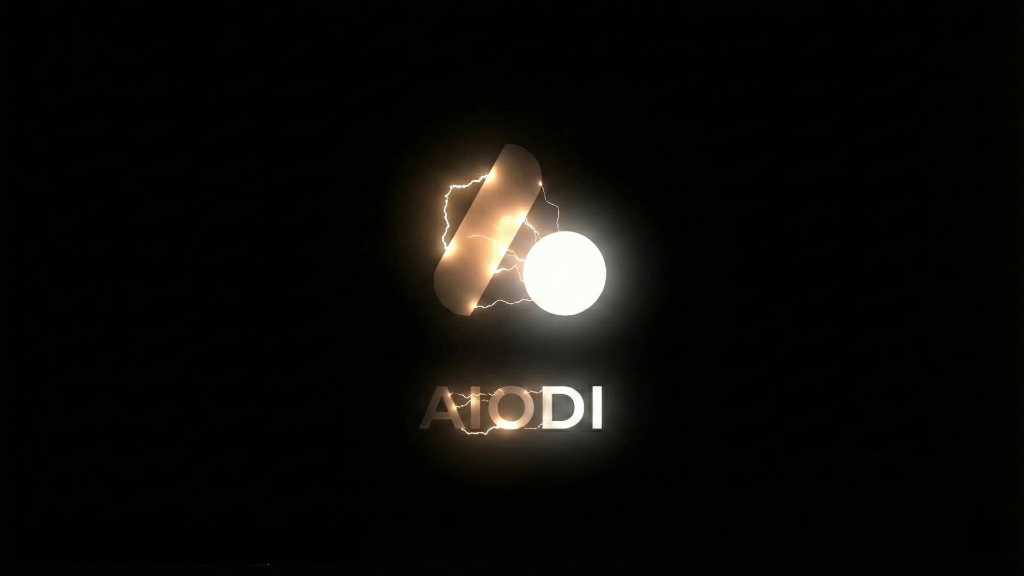
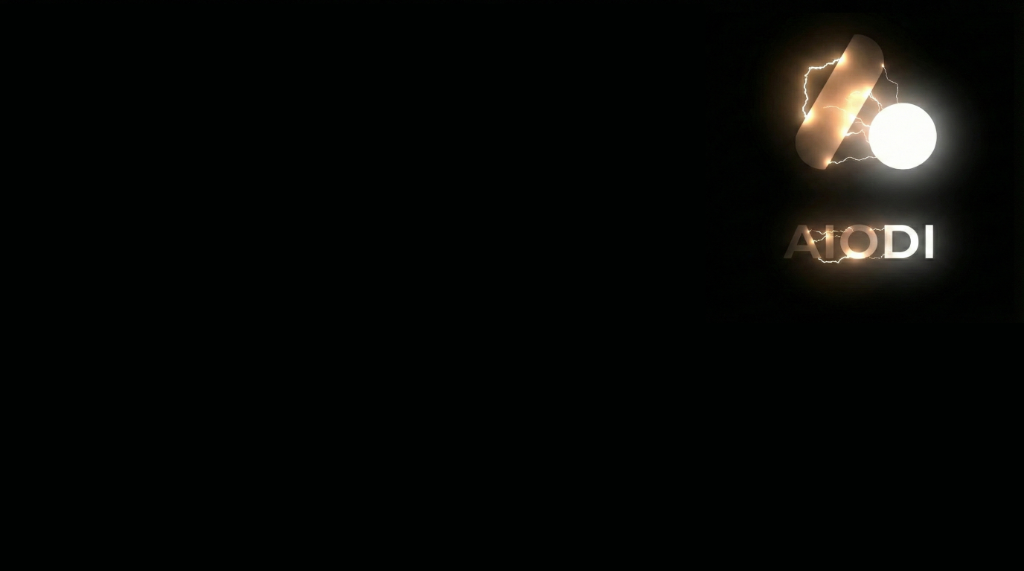
Fix search from info panel and swap splash/background images
1. Fixed search functionality from information panel:
   - Searching by actor name now properly displays results
   - Searching by movie title now properly displays results

   Root cause: The global_search.py script was setting window properties with
   plugin URLs and opening window 1112 (GlobalSearchResults), but the container
   controls weren't being told to refresh and load the content.

   Solution: Added Container.Refresh calls for containers 100, 101, and 102
   after a brief 100ms delay to allow the window to fully open. This triggers
   the panels to load their content from the GlobalSearch.MoviesURL,
   GlobalSearch.SeriesURL, and GlobalSearch.YouTubeURL properties.

   Modified: skin.AIODI/resources/lib/global_search.py

2. Swapped splash screen and default background images:
   - The old background.png (700KB) is now splash.png (splash screen)
   - The old splash.png (174KB) is now background.png (default background)

   This allows the more detailed image to be used as the splash screen
   and the simpler image as the background.

   Modified:
   - skin.AIODI/extras/splash.png (now 700KB, was 174KB)
   - skin.AIODI/extras/background.png (now 174KB, was 700KB)

Changed region(s): [[0.375, 0.2382, 0.625, 0.8039], [0.75, 0.0595, 0.9688, 0.5061]]

diff --git a/skin.AIODI/resources/lib/global_search.py b/skin.AIODI/resources/lib/global_search.py
@@ -71,8 +71,14 @@ try:
         # Close search dialog if open and open results
         if current_dialog_id == 1106:
             xbmc.executebuiltin('Dialog.Close(1106)')
-            
+
         xbmc.executebuiltin('ActivateWindow(1112)')
+
+        # Give window time to open, then refresh containers to load content
+        xbmc.sleep(100)
+        xbmc.executebuiltin('Container(100).Refresh')
+        xbmc.executebuiltin('Container(101).Refresh')
+        xbmc.executebuiltin('Container(102).Refresh')
     else:
         # Only notify if we were expecting an argument or valid input; 
         # canceling keyboard is a valid "do nothing" action.
